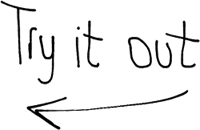
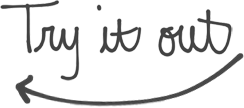
Added try it out image

Changed region(s): [[0.0, 0.0, 1.0, 1.0], [0.36, 0.1389, 0.6, 0.5278], [0.39, 0.0278, 0.42, 0.1111]]

diff --git a/index.html b/index.html
@@ -7,10 +7,10 @@
         <meta name="viewport" content="width=device-width, initial-scale=1.0">
         <meta name="description" content="SubtlePatterns Bookmarklet allows you to preview backgrounds for your website quickly and easily">
         <meta name="author" content="Brad Jasper">
-        <link href="/subtle-patterns-bookmarklet/static/css/bootstrap.css" rel="stylesheet" type="text/css" />
-        <link href="/subtle-patterns-bookmarklet/static/css/bootstrap-responsive.css" rel="stylesheet" type="text/css" />
-        <link href="/subtle-patterns-bookmarklet/static/css/bookmarklet.css" rel="stylesheet" type="text/css" />
-        <link href="/subtle-patterns-bookmarklet/static/css/app.css" rel="stylesheet" type="text/css" />
+        <link href="/static/css/bootstrap.css" rel="stylesheet" type="text/css" />
+        <link href="/static/css/bootstrap-responsive.css" rel="stylesheet" type="text/css" />
+        <link href="/static/css/bookmarklet.css" rel="stylesheet" type="text/css" />
+        <link href="/static/css/app.css" rel="stylesheet" type="text/css" />
         <!-- HTML5 shim, for IE6-8 support of HTML5 elements -->
         <!--[if lt IE 9]>
             <script src="http://html5shim.googlecode.com/svn/trunk/html5.js"></script>
@@ -39,7 +39,7 @@
             <hr>
 
             <div class="jumbotron">
-                 <h1>SubtlePatterns on your website</h1>
+                 <h1>Subtle&shy;Patterns on your website</h1>
 
                  <br />
                  <p class="lead">Preview the amazing patterns from <a href="http://subtlepatterns.com">SubtlePatterns.com</a> directly on your website</p>
@@ -47,11 +47,12 @@
            </div>
            <div class="content">
 
+                <img src="/static/img/try-it-out.png" class="try-it-out visible-desktop" />
                 <div class="bookmarklet_container">
                 </div>
 
                 <div class="bookmarklet_button">
-                  <a class="btn btn-large btn-success" href="javascript:(function()%7Bvar%20newscript%3Ddocument.createElement(%27script%27)%3Bnewscript.type%3D%27text/javascript%27%3Bnewscript.async%3Dtrue%3Bnewscript.src%3D%27http://bradjasper.com/subtle-patterns-bookmarklet/static/js/all.js%3Fcb%3D%27%20%2B%20Math.random()%3B(document.getElementsByTagName(%27head%27)%5B0%5D%7C%7Cdocument.getElementsByTagName(%27body%27)%5B0%5D).appendChild(newscript)%3B%7D)()%3B">SubtlePatterns Bookmarklet
+                  <a class="btn btn-large btn-success" href="javascript:(function()%7Bvar%20newscript%3Ddocument.createElement(%27script%27)%3Bnewscript.type%3D%27text/javascript%27%3Bnewscript.async%3Dtrue%3Bnewscript.src%3D%27http://bradjasper.com/static/js/all.js%3Fcb%3D%27%20%2B%20Math.random()%3B(document.getElementsByTagName(%27head%27)%5B0%5D%7C%7Cdocument.getElementsByTagName(%27body%27)%5B0%5D).appendChild(newscript)%3B%7D)()%3B">SubtlePatterns Bookmarklet
                       <br>
                   </a>
                   <small>Drag this button to your bookmarks toolbar to preview backgrounds any website</small>
@@ -60,7 +61,7 @@
 
           <div class="information">
           <h3>What is this?</h3>
-            <p>Finding good background patterns for your website can be a pain. Fortuntely, <a href="http://subtlepatterns.com">SubtlePatterns.com</a> makes this a lot easier by offering lots of free patterns. This bookmarklet lets you preview these patterns directly on your website, so you can quickly find the best one for your needs.
+            <p>Finding good background patterns for your website can be a pain. <a href="http://subtlepatterns.com">SubtlePatterns.com</a> is a great website that makes this a lot easier by offering free patterns you can use. This bookmarklet lets you preview these patterns directly on your website, so you can quickly find the best one for your needs.
             <br />
             <br />
               <strong>Tip:</strong> Use your left and right arrow keys to navigate between patterns (you can try it right now)
@@ -79,9 +80,9 @@
         </div>
         <script src="//ajax.googleapis.com/ajax/libs/jquery/1.8.2/jquery.min.js"></script>
         <script src="http://twitter.github.com/bootstrap/assets/js/bootstrap.min.js"></script>
-        <script src="/subtle-patterns-bookmarklet/static/js/subtlepatterns.js"></script>
-        <script src="/subtle-patterns-bookmarklet/static/js/bookmarklet.js"></script>
-        <script src="/subtle-patterns-bookmarklet/static/js/app.js"></script>
+        <script src="/static/js/subtlepatterns.js"></script>
+        <script src="/static/js/bookmarklet.js"></script>
+        <script src="/static/js/app.js"></script>
     </body>
 
 </html>

diff --git a/static/css/app.css b/static/css/app.css
@@ -12,6 +12,10 @@
   padding-bottom: 4px;
   border-radius: 5px;
 }
+.try-it-out {
+  position: absolute;
+  left: 500px;
+}
 .share-buttons {
   margin-top: 18px;
 }
@@ -45,10 +49,12 @@ body {
   color: #333;
   font-size: 15px;
 }
+.content {
+  position: relative;
+}
 .footer {
   margin-top: 50px;
 }
-
 /* Custom container */
 .container-narrow {
   margin: 0 auto;
@@ -76,4 +82,23 @@ body {
 }
 .marketing p + h4 {
   margin-top: 28px;
+}
+.spb-dark h1,
+.spb-dark h2,
+.spb-dark h3,
+.spb-dark h4,
+.spb-dark h5,
+.spb-dark h6,
+.spb-dark p {
+  color: #f0f0f0;
+}
+@media (max-width: 480px) {
+  h1,
+  h2,
+  h3,
+  h4,
+  h5,
+  h6 {
+    font-size: 80%;
+  }
 }

diff --git a/app.less b/app.less
@@ -14,6 +14,11 @@
   border-radius: 5px;
 }
 
+.try-it-out {
+  position: absolute;
+  left: 500px;
+}
+
 .share-buttons {
   margin-top: 18px;
 }
@@ -54,6 +59,10 @@ body {
   font-size: 15px;
 }
 
+.content {
+  position: relative;
+}
+
 .footer {
   margin-top: 50px;
 }
@@ -85,4 +94,21 @@ body {
 }
 .marketing p + h4 {
   margin-top: 28px;
+}
+
+.spb-dark {
+  h1, h2, h3, h4, h5, h6, p {
+    color: #f0f0f0;
+  }
+}
+
+@media (max-width: 480px) {
+  h1,
+  h2,
+  h3,
+  h4,
+  h5,
+  h6 {
+    font-size: 80%;
+  }
 }

diff --git a/static/css/bookmarklet.css b/static/css/bookmarklet.css
@@ -100,12 +100,3 @@
 #subtlepatterns_bookmarklet .about a {
   color: #666;
 }
-.spb-dark h1,
-.spb-dark h2,
-.spb-dark h3,
-.spb-dark h4,
-.spb-dark h5,
-.spb-dark h6,
-.spb-dark p {
-  color: #fefefe;
-}

diff --git a/bookmarklet.less b/bookmarklet.less
@@ -72,12 +72,4 @@
 
 }
 
-.spb-dark {
 
-
-  h1, h2, h3, h4, h5, h6, p {
-    color: #fefefe;
-  }
-
-
-}
